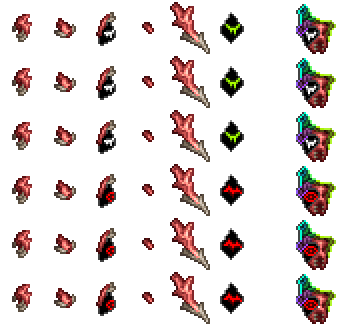
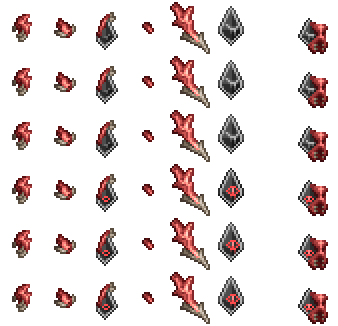
Revenant

diff --git a/Content/NPCs/Crimson/Revenant.cs b/Content/NPCs/Crimson/Revenant.cs
@@ -1,4 +1,6 @@
-using StarlightRiver.Core.DrawingRigs;
+using Microsoft.Xna.Framework.Graphics;
+using StarlightRiver.Content.Bosses.TheThinkerBoss;
+using StarlightRiver.Core.DrawingRigs;
 using StarlightRiver.Core.Loaders;
 using StarlightRiver.Core.Systems.ArmatureSystem;
 using StarlightRiver.Core.Systems.PixelationSystem;
@@ -435,7 +437,7 @@ namespace StarlightRiver.Content.NPCs.Crimson
 						swingTrailCache.Add(endPoint);
 
 						float colProg = (AttackTimer - windupDuration) / swingDuration;
-						Dust.NewDustPerfect(endPoint + Main.rand.NextVector2Circular(4f, 4f), ModContent.DustType<Dusts.PixelatedImpactLineDust>(), endPoint.DirectionTo(prev).RotatedBy(0.5f * NPC.direction) * (3 + 3 * prog), 0, new Color(1, colProg, colProg, 0), 0.5f * colProg);
+						Dust.NewDustPerfect(endPoint + Main.rand.NextVector2Circular(4f, 4f), ModContent.DustType<Dusts.PixelatedImpactLineDust>(), endPoint.DirectionTo(prev).RotatedBy(0.5f * NPC.direction) * (3 + 3 * prog), 0, new Color(1, colProg, colProg * 0.8f, 0), 0.5f * colProg);
 					}
 
 					// Collision
@@ -526,7 +528,7 @@ namespace StarlightRiver.Content.NPCs.Crimson
 
 					float r = 1f;
 					float g = 0.5f * trueFactor;
-					float b = 0.5f * trueFactor;
+					float b = 0.4f * trueFactor;
 					color = new Color(r, g, b, 1);
 
 					return color * alpha;
@@ -550,28 +552,33 @@ namespace StarlightRiver.Content.NPCs.Crimson
 			if (State > 0)
 				frameY += 3;
 
+			SpriteEffects effects = NPC.direction == 1 ? SpriteEffects.None : SpriteEffects.FlipHorizontally;
+			Vector2 origin = NPC.direction == 1 ? Vector2.Zero : new Vector2(0, 0);
+
+			if (Flipping)
+			{
+				if (FlipProg > 0.5f)
+				{
+					effects = NPC.direction == -1 ? SpriteEffects.None : SpriteEffects.FlipHorizontally;
+					origin = NPC.direction == -1 ? Vector2.Zero : new Vector2(0, 0);
+				}
+			}
+
 			for (int k = 0; k < stringPoints.Length; k++)
 			{
+				if (k == 2)
+				{
+					DrawCowl(spriteBatch);
+				}
+
 				Vector2 point = stringPoints[k];
 				StaticRigPoint rigPoint = rig.Points[k];
-
-				SpriteEffects effects = NPC.direction == 1 ? SpriteEffects.None : SpriteEffects.FlipHorizontally;
-				Vector2 origin = NPC.direction == 1 ? Vector2.Zero : new Vector2(0, 0);
-
-				if (Flipping)
-				{
-					if (FlipProg > 0.5f)
-					{
-						effects = NPC.direction == -1 ? SpriteEffects.None : SpriteEffects.FlipHorizontally;
-						origin = NPC.direction == -1 ? Vector2.Zero : new Vector2(0, 0);
-					}
-				}
 
 				Vector2 targetPos = point + origin - Main.screenPosition;
 				var frame = new Rectangle(rigPoint.Frame * 42, frameY * 54, 42, 54);
 
 				spriteBatch.Draw(tex, targetPos, frame, drawColor, stringRotations[k] + NPC.rotation, new Vector2(21, 27), 1f, effects, 0);
-				spriteBatch.Draw(texGlow, targetPos, frame, Color.White, stringRotations[k] + NPC.rotation, new Vector2(21, 27), 1f, effects, 0);
+				spriteBatch.Draw(texGlow, targetPos, frame, new Color(100, 100, 100, 100), stringRotations[k] + NPC.rotation, new Vector2(21, 27), 1f, effects, 0);
 			}
 
 			// Enqueues the pixelated links
@@ -585,6 +592,9 @@ namespace StarlightRiver.Content.NPCs.Crimson
 					{
 						effect.Parameters["u_time"].SetValue(Main.GameUpdateCount * 0.1f);
 						effect.Parameters["u_speed"].SetValue(1f);
+						effect.Parameters["color1"].SetValue(new Vector3(0.9f, 0.7f, 0.6f));
+						effect.Parameters["color2"].SetValue(new Vector3(0.9f, 0.8f, 0.6f));
+						effect.Parameters["color3"].SetValue(new Vector3(0.95f, 0.6f, 0.8f));
 
 						spriteBatch.End();
 						spriteBatch.Begin(default, default, default, default, Main.Rasterizer, effect);
@@ -636,6 +646,49 @@ namespace StarlightRiver.Content.NPCs.Crimson
 			}
 
 			return false;
+		}
+
+		private void DrawCowl(SpriteBatch spriteBatch)
+		{
+			Texture2D texGlow = Assets.NPCs.Crimson.RevenantCowl.Value;
+
+			SpriteEffects effects = NPC.direction == 1 ? SpriteEffects.None : SpriteEffects.FlipHorizontally;
+			Vector2 origin = NPC.direction == 1 ? new Vector2(2, 0) : new Vector2(-2, 0);
+
+			if (Flipping)
+			{
+				if (FlipProg > 0.5f)
+				{
+					effects = NPC.direction == -1 ? SpriteEffects.None : SpriteEffects.FlipHorizontally;
+					origin = NPC.direction == 1 ? new Vector2(2, 0) : new Vector2(-2, 0);
+				}
+			}
+
+			Effect bodyShader = ShaderLoader.GetShader("ThinkerBody").Value;
+
+			if (bodyShader != null)
+			{
+				bodyShader.Parameters["u_resolution"].SetValue(texGlow.Size());
+				bodyShader.Parameters["u_time"].SetValue(Main.GameUpdateCount * 0.015f);
+				bodyShader.Parameters["sampleScale"].SetValue(6f);
+
+				bodyShader.Parameters["mainbody_t"].SetValue(texGlow);
+				bodyShader.Parameters["linemap_t"].SetValue(Assets.Invisible.Value);
+				bodyShader.Parameters["noisemap_t"].SetValue(Assets.Noise.ShaderNoise.Value);
+				bodyShader.Parameters["overlay_t"].SetValue(Assets.Invisible.Value);
+				bodyShader.Parameters["normal_t"].SetValue(Assets.MagicPixel.Value);
+				bodyShader.Parameters["u_color"].SetValue(new Vector3(0.7f, 0.3f, 0.3f));
+				bodyShader.Parameters["u_fade"].SetValue(new Vector3(0.3f, 0.5f, 0.3f));
+				bodyShader.Parameters["mask_t"].SetValue(Assets.MagicPixel.Value);
+
+				spriteBatch.End();
+				spriteBatch.Begin(default, default, SamplerState.PointWrap, default, Main.Rasterizer, bodyShader, Main.GameViewMatrix.TransformationMatrix);
+
+				spriteBatch.Draw(texGlow, stringPoints[bodySegment] - Main.screenPosition, null, new Color(255, 255, 255, 0), stringRotations[bodySegment] + NPC.rotation, new Vector2(21, 27), 1f, effects, 0);
+
+				spriteBatch.End();
+				spriteBatch.Begin(default, default, default, default, Main.Rasterizer, default, Main.GameViewMatrix.TransformationMatrix);
+			}
 		}
 	}
 }

diff --git a/Content/NPCs/Crimson/GestaltCell.cs b/Content/NPCs/Crimson/GestaltCell.cs
@@ -863,6 +863,9 @@ namespace StarlightRiver.Content.NPCs.Crimson
 				{
 					effect.Parameters["u_time"].SetValue(Main.GameUpdateCount * 0.1f);
 					effect.Parameters["u_speed"].SetValue(0.5f);
+					effect.Parameters["color1"].SetValue(new Vector3(0.65f, 0.64f, 0.87f));
+					effect.Parameters["color2"].SetValue(new Vector3(0.5f, 0.87f, 0.87f));
+					effect.Parameters["color3"].SetValue(new Vector3(0.95f, 0.59f, 0.78f));
 
 					spriteBatch.End();
 					spriteBatch.Begin(default, default, default, default, Main.Rasterizer, effect);
